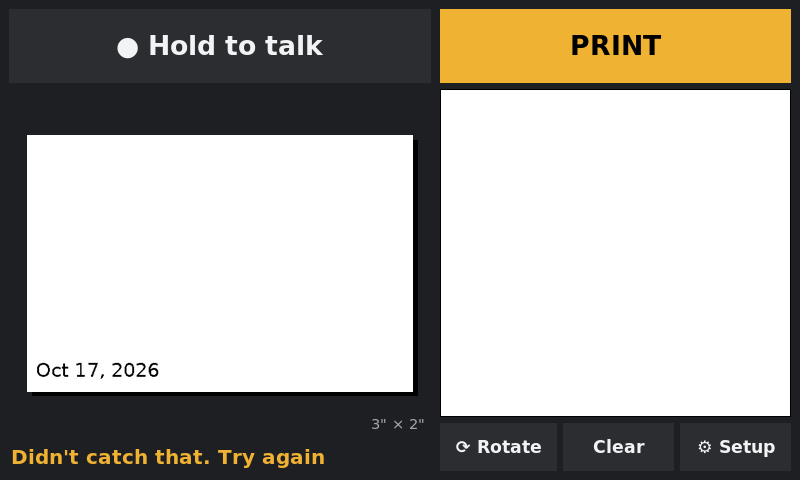
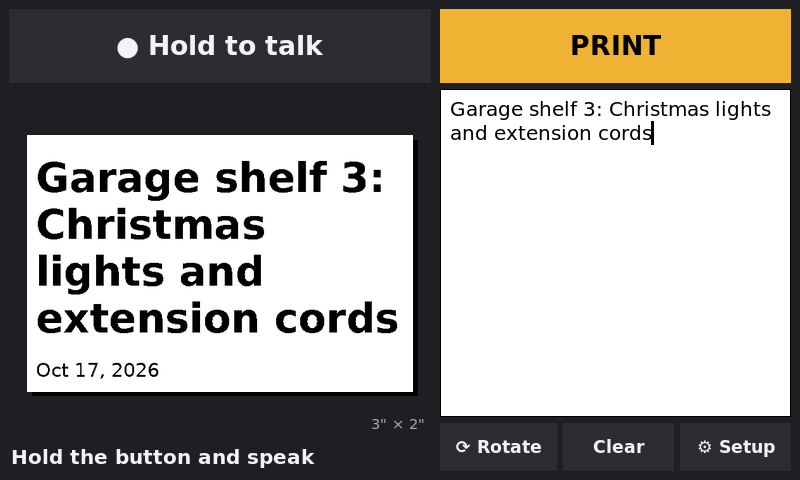
Replace the case images with proper renders; add the Setup screen
Swap the rough matplotlib previews for three.js renders of the assembled
case (front and back). Show the main and Setup screens side by side in the
README. The main-screen shot now shows a real label instead of an error.
Add a LABELBOX_TEXT environment variable that pre-fills the label text,
for taking screenshots.

diff --git a/labelbox/app.py b/labelbox/app.py
@@ -698,6 +698,8 @@ def main():
     app = App(root, dry_run=args.dry_run, screen=screen)
     if os.environ.get("LABELBOX_SHOW_SETUP"):      # for screenshots while testing
         root.after(300, app.open_setup)
+    if os.environ.get("LABELBOX_TEXT"):            # pre-filled label, for screenshots
+        root.after(300, lambda: app._set_text(os.environ["LABELBOX_TEXT"]))
     try:
         root.mainloop()
     finally:

diff --git a/README.md b/README.md
@@ -5,8 +5,16 @@ A stand-alone voice-to-label printer built on a Raspberry Pi 5. Hold **TALK** an
 Speech recognition runs entirely on the Pi with [Moonshine](https://github.com/moonshine-ai/moonshine), so there's no cloud service, no fee, and no internet needed after setup.
 
 <p align="center">
-  <img src="labelbox/docs/screen.png" alt="The app on the 7-inch screen: Hold to talk and PRINT buttons, label preview, text box" width="480">
-  <img src="labelbox/docs/sample-label.png" alt="A sample 3 by 2 inch label with text, a QR code and the date" width="300">
+  <img src="case/docs/case-front.png" alt="The printed case: a 7-inch screen reclined above a dark deck with a red TALK button and a yellow PRINT button" width="520">
+</p>
+
+| Main screen | Setup screen |
+|---|---|
+| <img src="labelbox/docs/screen.png" alt="Main screen: Hold to talk and PRINT buttons across the top, the label preview on the left, the text box on the right" width="400"> | <img src="labelbox/docs/setup.png" alt="Setup screen: Date and QR toggles with text fields, copies, brightness and print hold buttons" width="400"> |
+
+<p align="center">
+  <img src="labelbox/docs/sample-label.png" alt="A sample 3 by 2 inch label with text, a QR code and the date" width="300"><br>
+  <em>A label as the app draws and prints it (3 × 2 in, 203 dpi)</em>
 </p>
 
 ## What's here
@@ -15,10 +23,6 @@ Speech recognition runs entirely on the Pi with [Moonshine](https://github.com/m
 |---|---|
 | [`labelbox/`](labelbox/) | The app: touchscreen editor with a live label preview, push-to-talk speech, date and QR code options, Zebra ZPL printing, screen blanking, and a Setup screen. [Setup and usage guide](labelbox/README.md) |
 | [`case/`](case/) | A 3D-printable desk console: the reclined screen housing, a button deck for TALK and PRINT, a side mic socket, and snap-out cable tabs. Includes print-ready STLs and the parametric Python model. [Printing and assembly guide](case/README.md) |
-
-<p align="center">
-  <img src="case/docs/view-front.png" alt="Rendered case: reclined screen above a sloped deck with two buttons" width="420">
-</p>
 
 ## Hardware
 

diff --git a/case/README.md b/case/README.md
@@ -1,5 +1,10 @@
 # Voice Labels case
 
+<p align="center">
+  <img src="docs/case-front.png" alt="Front: reclined screen housing above the button deck" width="420">
+  <img src="docs/case-back.png" alt="Back: vented back plate, with the mic socket in the right side wall" width="400">
+</p>
+
 A desk console for the voice label printer: the 7" screen (with the Pi on its back) sits in a housing reclined 20°. In front of it is a sloped deck with the **TALK** (left) and **PRINT** (right) buttons. The mic plugs into a socket on the right side, above the Pi's USB ports. Cables leave through snap-out tabs on either side.
 
 Assembled size: about **215 W × 145 D × 170 H mm**. Every part fits the Snapmaker U1's 270 mm bed and prints **without supports**.

diff --git a/labelbox/README.md b/labelbox/README.md
@@ -94,6 +94,10 @@ After the reboot, the app opens fullscreen. Press **Ctrl+Shift+Q** to quit to th
 
 ## Using it
 
+| Main screen | Setup screen |
+|---|---|
+| <img src="docs/screen.png" alt="Main screen" width="400"> | <img src="docs/setup.png" alt="Setup screen" width="400"> |
+
 The main screen has **Hold to talk** (top left) and **PRINT** (top right). The label preview and status message are below on the left. The text box is on the right, with **⟳ Rotate**, **Clear** and **⚙ Setup** under it.
 
 | Do this | To |
